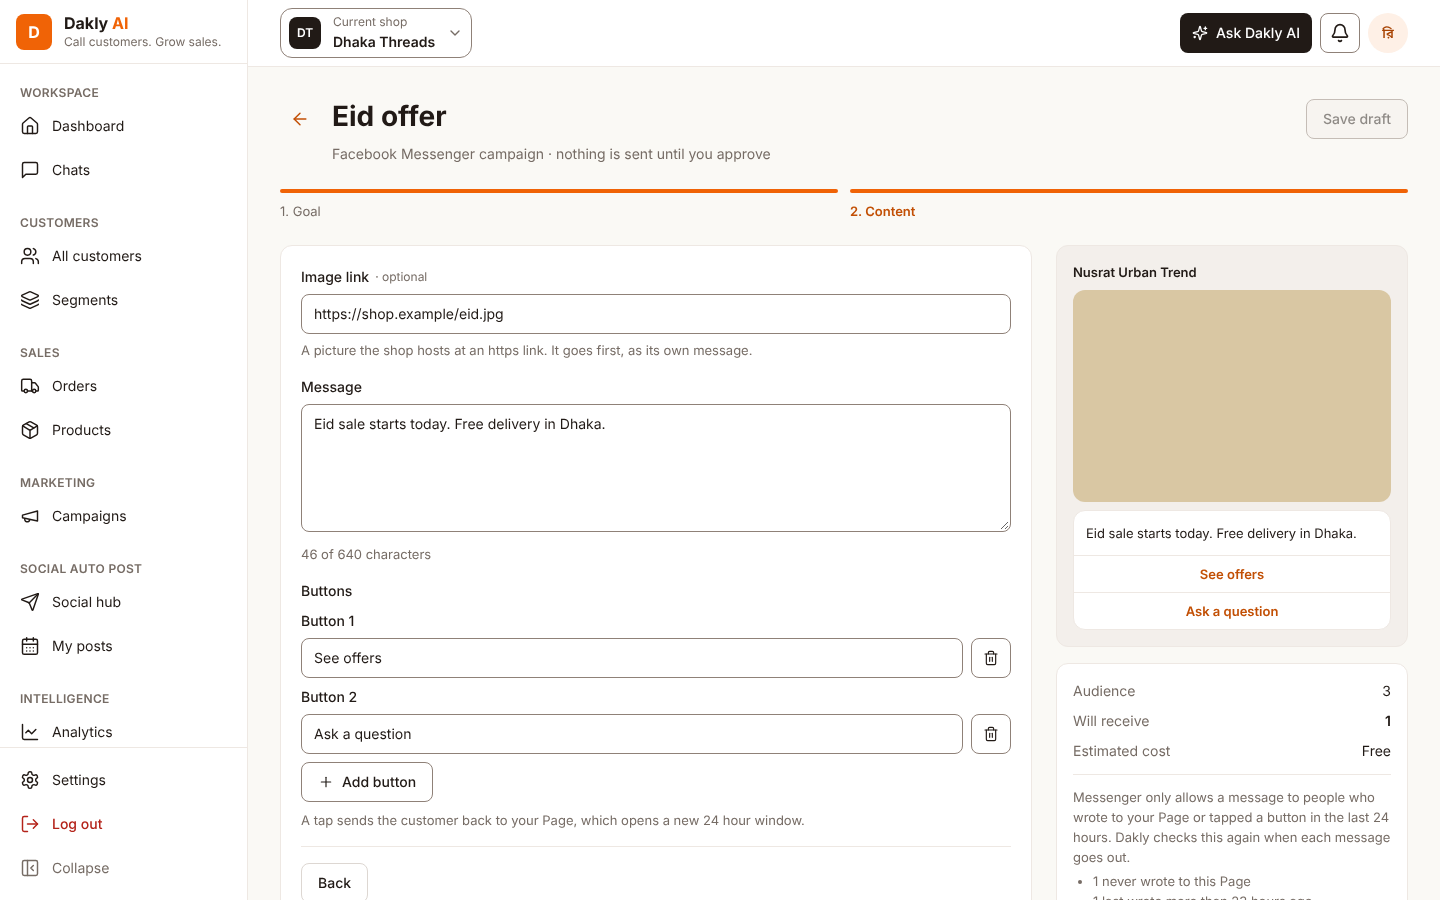
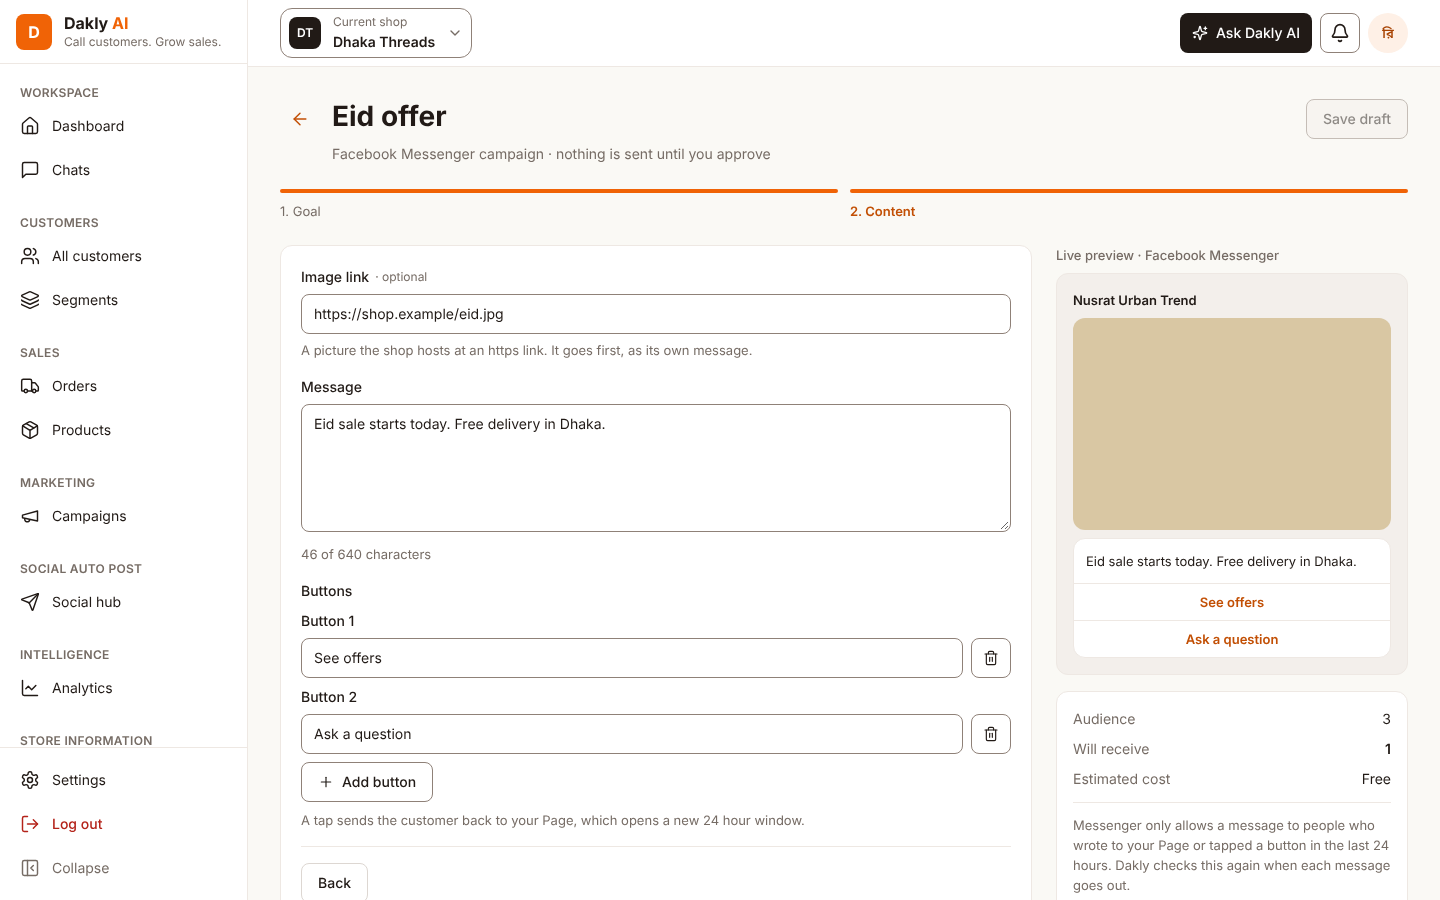
feat(camp-17): label the preview column and add SMS content step evidence

diff --git a/apps/web/e2e/campaign-drafts.spec.ts b/apps/web/e2e/campaign-drafts.spec.ts
@@ -177,6 +177,15 @@ test('saves an SMS draft and opens a sent campaign read-only', async ({
       .toBe(true);
     await page.setViewportSize({ width: 1440, height: 900 });
 
+    await name.fill('Winter Kurti collection');
+    await page.getByRole('button', { name: 'Continue' }).click();
+    await expect(page).toHaveURL(/step=content$/);
+    await page
+      .getByLabel('Message', { exact: true })
+      .fill('Winter Kurti collection is in. Order today and get free delivery in Dhaka.');
+    await expect(page.getByText('Live preview · SMS', { exact: true })).toBeVisible();
+    await capture(page, 'sms-content-step');
+
     await page.goto(`/campaigns/${sent.id}`);
     await expect(page.getByRole('heading', { name: 'Puja winback' })).toBeVisible();
     await expect(page.getByText('Come back this week for our Puja collection.')).toBeVisible();

diff --git a/apps/web/src/features/campaigns/components/campaign-draft-shell.tsx b/apps/web/src/features/campaigns/components/campaign-draft-shell.tsx
@@ -82,7 +82,14 @@ export function CampaignDraftShell({
             saving={saving}
           />
         </form>
-        {sideColumn}
+        {sideColumn && (
+          <div className="min-w-0 space-y-2">
+            <p className="text-sm font-medium text-text-muted">
+              Live preview · {campaignChannelLabels[channel]}
+            </p>
+            {sideColumn}
+          </div>
+        )}
       </div>
     </div>
   );

diff --git a/docs/tasks.md b/docs/tasks.md
@@ -113,7 +113,7 @@ Core, built before channel connections with SMS as the first channel (D40), and 
 | CAMP-3  | Campaign sender job, callbacks and results counts                                                                                                                                                    | Done        | CAMP-2, CAMP-10, MSG-1         | #154, #174, #233, #238, #240, #242, #247, #251                                     | Recurring SMS, top-up resume, results counts and per-recipient body links. Approvals reserve the wrapped price and retries reuse the same codes. Provider delivery callbacks follow ACC-14.                                                                                                                                                                                                                                                                                                                                                                                                                                                                            |
 | CAMP-7  | Messenger campaigns to people with an open window                                                                                                                                                    | Done        | CAMP-3, CHAT-2                 | #308, #320, #340, #345, #354                                                       | D24 Part 1: Messenger buttons and postbacks (#308). Part 2a: Messenger drafts, 23-hour audience and estimate. Part 2b: sends through the chat dispatcher, free and with an image fallback. Part 3: workflow steps. Part 4: builder screen with image, buttons, preview and the small-count note; the audience, schedule and Approve steps are shared builder work no task owns yet (feature 09).                                                                                                                                                                                                                                                                       |
 | CAMP-4  | Web: campaign list, builder, results                                                                                                                                                                 | Done        | CAMP-3, WEB-2                  | #160, #179, #176, #263                                                             | List API supports filtering and paging. Results page from the feature 09 spec, no design. Cost, outcome lists, failure reasons and the follow-up actions wait for new API reads.                                                                                                                                                                                                                                                                                                                                                                                                                                                                                       |
-| CAMP-17 | Web: campaign builder steps (goal, audience, schedule, review and approve, test send) for SMS and Messenger                                                                                          | In progress | CAMP-4, CAMP-7                 |                                                                                    | WhatsApp waits for its channel. The approve, schedule and estimate API exists; this is mostly screen work. Part 1: step bar with Goal and Content.                                                                                                                                                                                                                                                                                                                                                                                                                                                                                                                     |
+| CAMP-17 | Web: campaign builder steps (goal, audience, schedule, review and approve, test send) for SMS and Messenger                                                                                          | In progress | CAMP-4, CAMP-7                 | #358                                                                               | WhatsApp waits for its channel. The approve, schedule and estimate API exists; this is mostly screen work. Part 1: step bar with Goal and Content.                                                                                                                                                                                                                                                                                                                                                                                                                                                                                                                     |
 | CAMP-8  | Release 1 workflow catalogue and typed graph contracts                                                                                                                                               | Done        | REV-7                          | #88, #97                                                                           | Triggers, actions and templates in `packages/contracts/src/automations/`                                                                                                                                                                                                                                                                                                                                                                                                                                                                                                                                                                                               |
 | CAMP-5  | Workflow engine: drafts, versions and runner                                                                                                                                                         | Done        | CAMP-8, CAMP-9, CAMP-10, MSG-1 | #110, #113, #133, #135, #168, #141, #182, #187, #189, #193, #156, #165, #231, #235 | D23; drafts and versions #110 and #113. Runner order: claims, steps, SMS dispatch preparation, send costs, SMS delivery deadline, shared workflow checks, retry record, SMS settlement, retries, balance pause and resume. Publish warnings come with CAMP-12 and CAMP-6. Owner email for balance pause waits on #213. Runner integration tests close worker connections after each test. The wallet-lock quiet-hours case pins the wake time to its fixture clock.                                                                                                                                                                                                    |
 | CAMP-11 | Workflow triggers and entry rules                                                                                                                                                                    | Done        | CAMP-5, DB-2                   | #195, #196                                                                         | Event entry, birthday and preview merged. Order triggers are ORD-4. consent_given ignores source import (owner, 17 Nov). The seven-day entry count on the builder goes with CAMP-6.                                                                                                                                                                                                                                                                                                                                                                                                                                                                                    |
